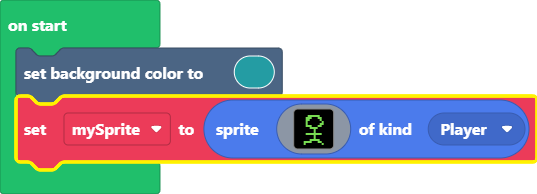
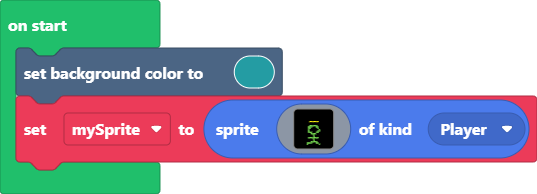
Update main.blocks, main.ts

Changed region(s): [[0.0, 0.4639, 1.0, 0.8969], [0.5661, 0.5876, 0.6257, 0.7423]]

diff --git a/main.ts b/main.ts
@@ -1,19 +1,27 @@
 scene.setBackgroundColor(6)
 let mySprite = sprites.create(img`
-    . . . . . . . . . . . . . . . . 
-    . . . . . 7 7 7 7 7 7 . . . . . 
-    . . . . 7 7 7 . . . 7 7 . . . . 
-    . . . . 7 7 . . . . . 7 . . . . 
-    . . . . 7 . . . . . . . 7 . . . 
-    . . . . 7 . . . . . . 7 7 . . . 
-    . . . . 7 7 7 . . . 7 7 . . . . 
-    . . . . . . 7 7 7 7 . . . . . . 
-    . . . . . . . . 7 . . . . . . . 
-    . . . . . . . . 7 . . . . . . . 
-    . . . . 7 7 7 7 7 7 7 7 . . . . 
-    . . . . . . . . 7 . . . . . . . 
-    . . . . . . . . 7 . . . . . . . 
-    . . . . . . 7 7 7 7 7 . . . . . 
-    . . . 7 7 7 7 . . . 7 7 . . . . 
-    . . . 7 . . . . . . . . 7 . . . 
+    ................
+    .....fffffff....
+    .....fffffff....
+    .....fffffff....
+    .....fffffff....
+    .....fffffff....
+    .....5555555....
+    .....fffffff....
+    ...fffffffffff..
+    .....777777.....
+    ....777...77....
+    ....77.....7....
+    ....7.......7...
+    ....7......77...
+    ....777...77....
+    ......7777......
+    ........7.......
+    ........7.......
+    ....77777777....
+    ........7.......
+    ........7.......
+    ......77777.....
+    ...7777...77....
+    ...7........7...
     `, SpriteKind.Player)
